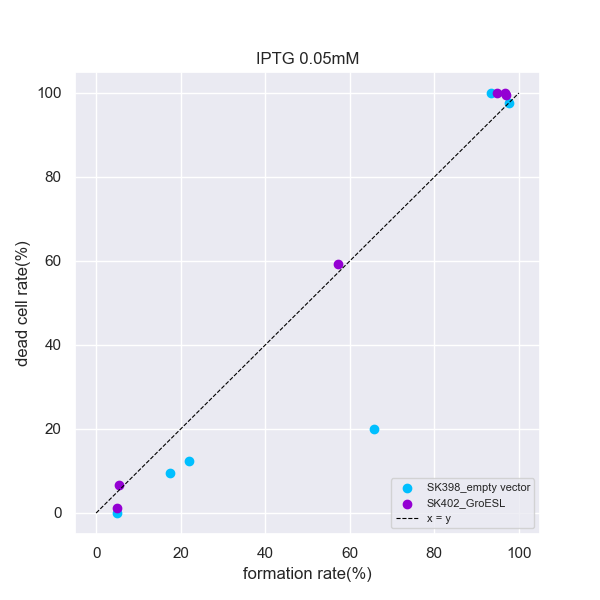
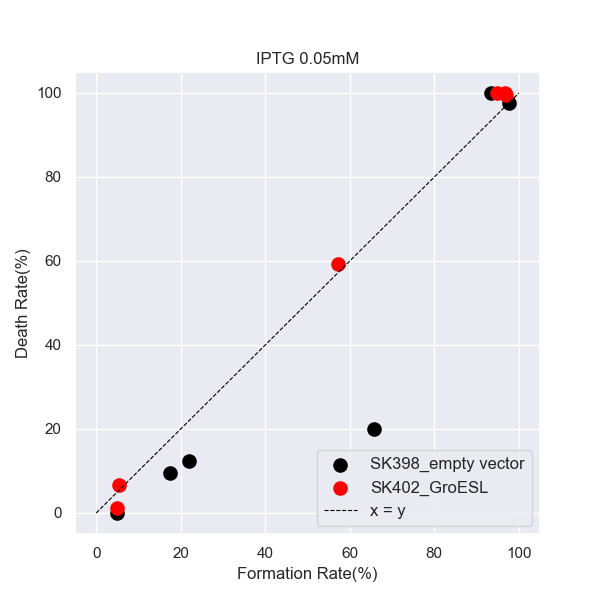
hist

diff --git a/plot_anal_5%.py b/plot_anal_5%.py
@@ -1,0 +1,60 @@
+import os
+import pandas as pd
+import matplotlib.pyplot as plt
+import seaborn as sns
+
+file_list = [
+    "sk398_01_bta_0001-completed.db_median_fluo_intensities.csv",
+    "sk398_01_bta_exp-completed.db_median_fluo_intensities.csv",
+    "sk402_01_bta_0001-completed.db_median_fluo_intensities.csv",
+    "sk402_01_bta_exp-completed.db_median_fluo_intensities.csv",
+]
+
+# 各ファイルに対応する名前を設定
+file_names = [
+    "SK398",
+    "SK398 exp",
+    "SK402",
+    "SK402 exp",
+]
+
+percentile_values = []
+
+for file in file_list:
+    # ファイルの存在を確認
+    if os.path.exists(file):
+        try:
+            # CSVデータを読み込み
+            data = pd.read_csv(file, header=None)  # ヘッダーなしで読み込み
+            # 数値データに変換
+            data = data.apply(pd.to_numeric, errors='coerce')
+            # 1列目（または全データ）の下位5パーセンタイルを計算
+            percentile_5 = data[0].quantile(0.05)
+            percentile_values.append(percentile_5)
+            print(f"{file} の下位5パーセンタイル: {percentile_5}")
+        except Exception as e:
+            print(f"ファイル {file} の処理中にエラーが発生しました: {e}")
+    else:
+        print(f"ファイル {file} が見つかりませんでした。")
+
+# データを整形（棒グラフ用に準備）
+df = pd.DataFrame({"File": file_names, "5th Percentile": percentile_values})
+
+# # SK402 01 BTAの5th Percentile Valueを取得
+# sk402_01_bta_value = df[df["File"] == "SK402 01 BTA 1128"]["5th Percentile"].values[0]
+
+# # カスタムカラーリストを作成
+# colors = ['blue' if value > sk402_01_bta_value else 'red' for value in df["5th Percentile"]]
+
+# 棒グラフを作成
+plt.figure(figsize=(10, 6))
+sns.barplot(x="File", y="5th Percentile", data=df, width=0.5)  # カスタムカラーリストを使用
+plt.xlabel("Sample", fontsize=12)
+plt.ylabel("5th Percentile Value", fontsize=12)
+plt.title("Comparison of 5th Percentile Values", fontsize=14)
+plt.xticks(rotation=45, ha='right')
+plt.tight_layout()
+plt.savefig("fig_5th_percentile_comparison_241217.png")
+
+# グラフを表示
+plt.show()

diff --git a/plot_anal_buta_40201_241217.py b/plot_anal_buta_40201_241217.py
@@ -1,0 +1,39 @@
+import pandas as pd
+
+# ファイルパスをリストで指定
+file_paths = [
+    "sk398_01_bta_0001-completed.db_median_fluo_intensities.csv",  # 最初のファイル
+    "sk398_01_bta_18-completed.db_median_fluo_intensities.csv",  # 残りの5つのファイル
+    "sk402_01_bta_1-completed.db_median_fluo_intensities.csv",
+    "sk402_01_bta_13-completed.db_median_fluo_intensities.csv",
+    "sk402_01_bta_15001-completed.db_median_fluo_intensities.csv",
+    "sk402_01_bta_18-completed.db_median_fluo_intensities.csv"
+]
+
+# 最初のファイルを読み込み
+file1_data = pd.read_csv(file_paths[0])
+
+# 最初のファイル中のデータの5パーセンタイル値を計算
+# (数値データのみを対象とする)
+threshold = file1_data.select_dtypes(include=["number"]).quantile(0.05).min()
+
+print(f"最初のファイルにおける5パーセンタイル閾値: {threshold}")
+
+ratios = []
+
+# 他のファイルで閾値以下の値を持つ割合を計算
+for i, file_path in enumerate(file_paths[1:], start=2):
+    # ファイルの読み込み
+    file_data = pd.read_csv(file_path)
+    
+    # 数値データのみを対象とする
+    numeric_data = file_data.select_dtypes(include=["number"])
+    
+    # 閾値以下の値の割合を計算
+    count_below_threshold = (numeric_data < threshold).sum().sum()  # 閾値以下の総数
+    total_values = numeric_data.size  # 全要素数
+    ratio = count_below_threshold / total_values if total_values > 0 else 0  # 安全のため条件付き
+    
+    ratios.append(float(ratio))
+
+print(f"割合:{ratios}")

diff --git a/plot_cor_398402_005_241128.py b/plot_cor_398402_005_241128.py
@@ -16,12 +16,12 @@ f_red = multiply_by_100([0.013043478, 0.067708333, 0.592039801, 0.994413408, 1, 
 
 fig, ax = plt.subplots(figsize=(6, 6))
 
-ax.scatter(c_black, f_black, color='deepskyblue', label='SK398_empty vector')
-ax.scatter(c_red, f_red, color='darkviolet', label='SK402_GroESL')
+ax.scatter(c_black, f_black, color='black', label='SK398_empty vector', s=90)
+ax.scatter(c_red, f_red, color='red', label='SK402_GroESL', s=90)
 
 ax.grid(True)
-ax.set_xlabel('formation rate(%)')
-ax.set_ylabel('dead cell rate(%)')
+ax.set_xlabel('Formation Rate(%)')
+ax.set_ylabel('Death Rate(%)')
 ax.set_ylim(-5, 105)
 ax.set_xlim(-5, 105)
 ax.set_title('IPTG 0.05mM')
@@ -43,7 +43,7 @@ fit_equation_f = f'{fit_equation}\n(R²= {correlation_coefficient:.4f})'
 x = np.linspace(0, 100, 100)
 ax.plot(x, x, color='black', linestyle='--', linewidth=0.8, label='x = y')
 
-ax.legend(loc='lower right', fontsize='8')
+ax.legend(loc='lower right', fontsize='12')
 
 # 保存
 fig.savefig("fig_bta_cor_398402_005_241128.png")

diff --git a/plot_cor_398402_01_241128.py b/plot_cor_398402_01_241128.py
@@ -16,12 +16,12 @@ f_red = multiply_by_100([0.04950495, 0.223404255, 0.984924623, 1, 1, 1])
 
 fig, ax = plt.subplots(figsize=(6, 6))
 
-ax.scatter(c_black, f_black, color='deepskyblue', label='SK398_empty vector')
-ax.scatter(c_red, f_red, color='darkviolet', label='SK402_GroESL')
+ax.scatter(c_black, f_black, color='black', label='SK398_empty vector', s=90)
+ax.scatter(c_red, f_red, color='red', label='SK402_GroESL', s=90)
 
 ax.grid(True)
-ax.set_xlabel('formation rate(%)')
-ax.set_ylabel('dead cell rate(%)')
+ax.set_xlabel('Formation rate(%)')
+ax.set_ylabel('Death rate(%)')
 ax.set_ylim(-5, 105)
 ax.set_xlim(-5, 105)
 ax.set_title('IPTG 0.1mM')
@@ -43,7 +43,7 @@ fit_equation_f = f'{fit_equation}\n(R²= {correlation_coefficient:.4f})'
 x = np.linspace(0, 100, 100)
 ax.plot(x, x, color='black', linestyle='--', linewidth=0.8, label='x = y')
 
-ax.legend(loc='lower right', fontsize='8')
+ax.legend(loc='lower right', fontsize='12')
 
 # 保存
 fig.savefig("fig_bta_cor_398402_01_241128.png")

diff --git a/histogram.py b/histogram.py
@@ -1,0 +1,15 @@
+import pandas as pd
+import matplotlib.pyplot as plt
+
+# CSVファイルを読み込む
+csv_file = "sk25_bta_FITC_c-completed.db_median_fluo_intensities.csv"  # CSVファイル名を指定してください
+data = pd.read_csv(csv_file, header=None)  # header=Noneで列名なしとして読み込む
+
+# ヒストグラムを作成
+plt.hist(data[0], bins=30, color='b', edgecolor='black')
+plt.title("Histogram")
+plt.xlabel("Values")
+plt.ylabel("Frequency")
+
+# グラフを表示
+plt.show()
